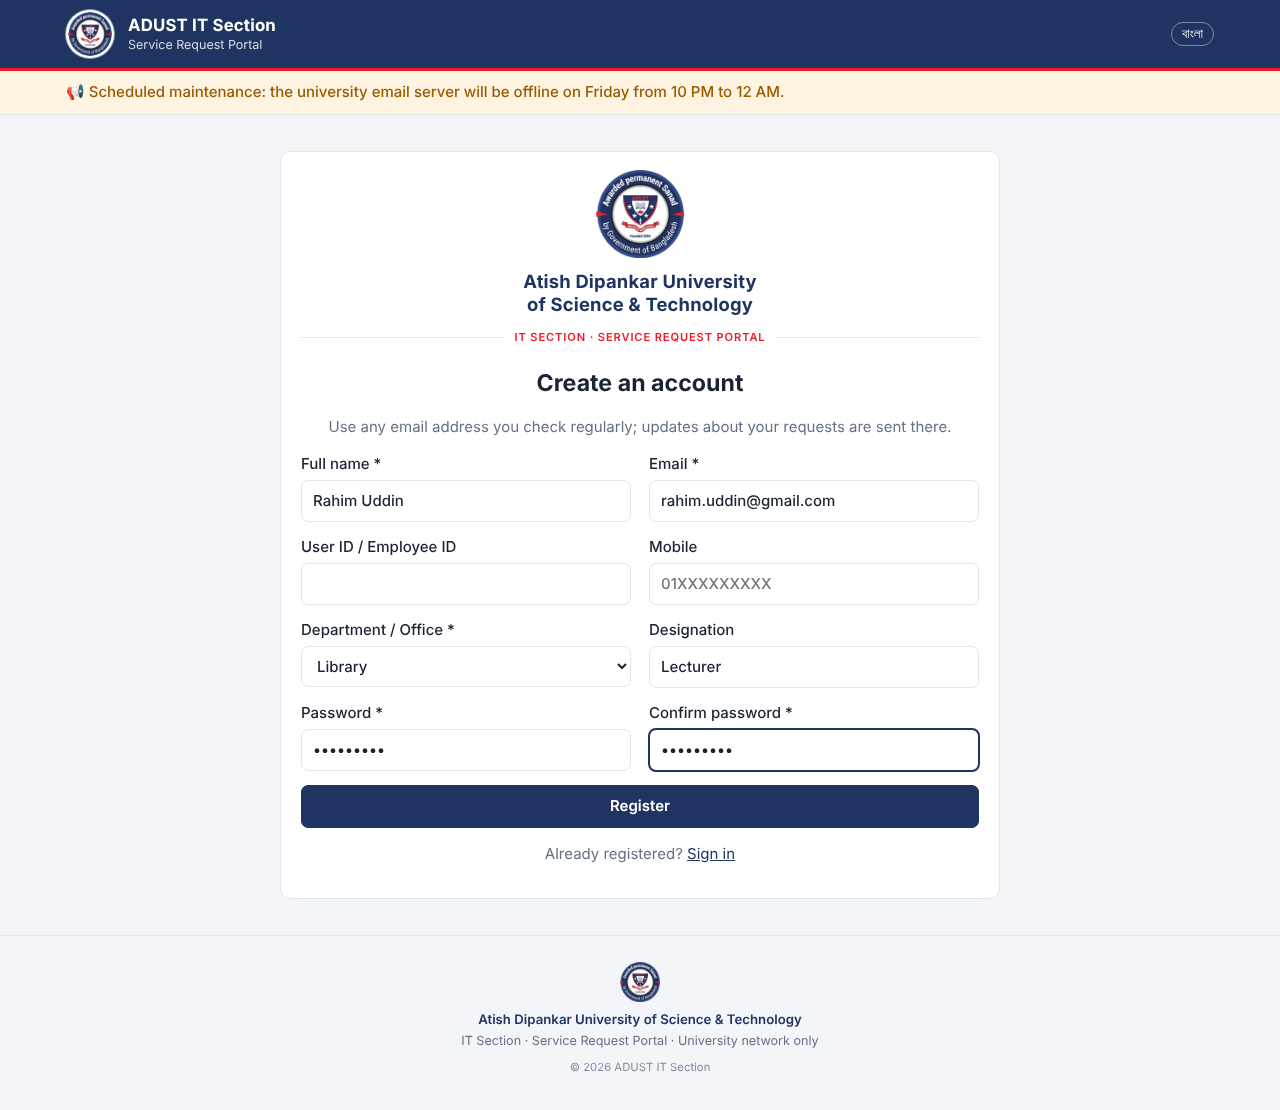
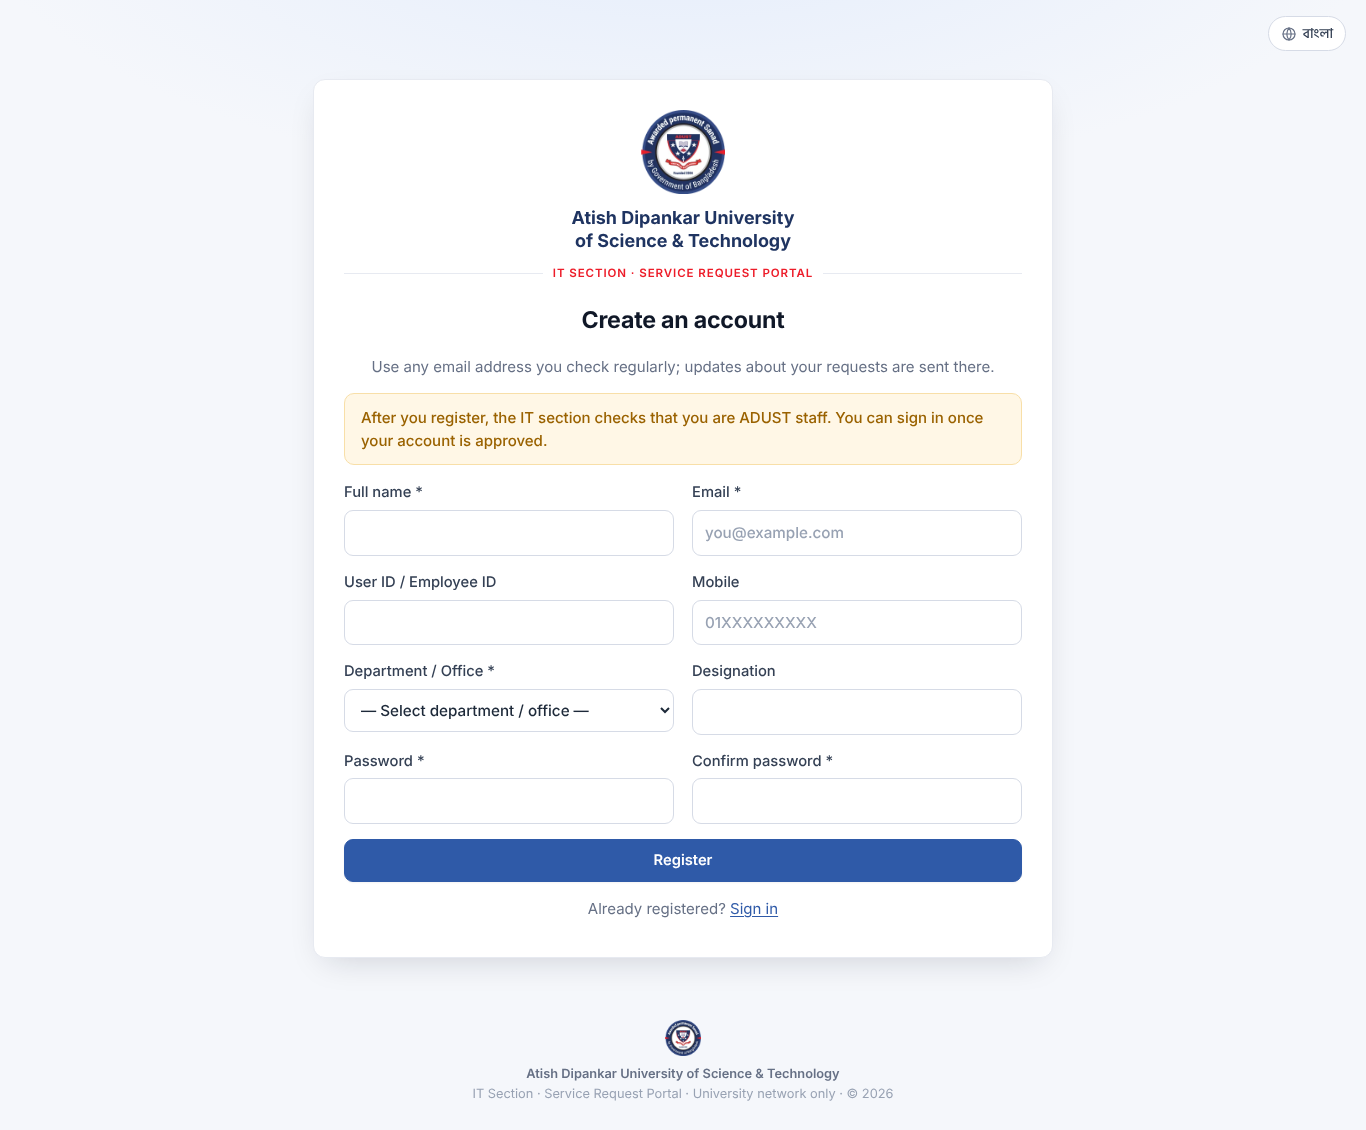
Require IT admin verification for self-registered accounts
New sign-ups cannot sign in until an IT admin approves them on the Users
page (choosing their role and department-head flag) or rejects them.
Admins get a notification and email for each new sign-up; the user gets
an email when approved. Can be switched off in Settings. Existing
databases gain the 'approved' column on start-up with all current
accounts kept active.

Claude-Session: https://claude.ai/code/session_01EB5ad8Y4nycXoiEcyB24w6

Changed region(s): [[0.0, 0.0, 1.0, 0.827], [0.3438, 0.8577, 0.6562, 0.9802], [0.25, 0.4901, 0.375, 0.5207]]

diff --git a/templates/admin/users.html b/templates/admin/users.html
@@ -1,6 +1,37 @@
 {% extends "base.html" %}{% from "_macros.html" import dept_select %}{% block title %}{{ _('Users') }}{% endblock %}
 {% block content %}
 <h1>{{ _('Users') }}</h1>
+{% if pending %}
+<div class="card approve-card">
+  <h2>👤 {{ _('New accounts waiting for verification') }} ({{ pending|length }})</h2>
+  <p class="muted">{{ _('Check that each person really is ADUST staff (name, department, designation, email) before approving.') }}</p>
+  <table>
+    <thead><tr><th>{{ _('Name') }}</th><th>{{ _('Email / User ID') }}</th><th>{{ _('Department') }}</th><th>{{ _('Mobile') }}</th><th>{{ _('Registered') }}</th><th></th></tr></thead>
+    <tbody>
+    {% for u in pending %}
+    <tr>
+      <td data-label="{{ _('Name') }}"><strong>{{ u.name }}</strong><br><small class="muted">{{ u.designation or '—' }}</small></td>
+      <td data-label="{{ _('Email') }}">{{ u.email }}<br><small class="muted">{{ u.login_id or '' }}</small></td>
+      <td data-label="{{ _('Department') }}">{{ u.department }}</td>
+      <td data-label="{{ _('Mobile') }}">{% if u.phone %}<a href="tel:{{ u.phone }}">{{ u.phone }}</a>{% else %}—{% endif %}</td>
+      <td data-label="{{ _('Registered') }}">{{ u.created_at|dt }}</td>
+      <td>
+        <form method="post" action="{{ url_for('admin_verify_user', user_id=u.id) }}" class="verify-form">
+          <input type="hidden" name="csrf_token" value="{{ csrf_token() }}">
+          <select name="role" aria-label="{{ _('Role') }}">{% for k, v in ROLES.items() %}<option value="{{ k }}">{{ _(v) }}</option>{% endfor %}</select>
+          <label class="check"><input type="checkbox" name="is_approver" value="1"> {{ _('Dept. head') }}</label>
+          <div class="actions">
+            <button class="btn small primary" name="decision" value="approve">✓ {{ _('Approve') }}</button>
+            <button class="btn small danger" name="decision" value="reject" onclick="return confirm('{{ _('Reject and remove this account request?') }}')">✕ {{ _('Reject') }}</button>
+          </div>
+        </form>
+      </td>
+    </tr>
+    {% endfor %}
+    </tbody>
+  </table>
+</div>
+{% endif %}
 <div class="card">
   <h2>{{ _('Edit {name}', name=edit.name) if edit else _('Add a user') }}</h2>
   <form method="post" class="grid">

diff --git a/templates/admin/settings.html b/templates/admin/settings.html
@@ -22,6 +22,7 @@
         <option value="left" {{ 'selected' if values.sidebar_side == 'left' }}>{{ _('Left side') }}</option>
         <option value="right" {{ 'selected' if values.sidebar_side == 'right' }}>{{ _('Right side') }}</option>
       </select></label>
+    <label class="check"><input type="checkbox" name="require_account_approval" value="1" {{ 'checked' if values.require_account_approval == '1' }}> {{ _('New accounts must be verified by an IT admin before they can sign in') }}</label>
     <label class="check"><input type="checkbox" name="sms_urgent" value="1" {{ 'checked' if values.sms_urgent == '1' }}> {{ _('Send SMS to IT staff for urgent requests and escalations') }}</label>
     <button class="btn primary">{{ _('Save settings') }}</button>
   </form>

diff --git a/static/style.css b/static/style.css
@@ -229,6 +229,9 @@ a.stat:hover { border-color: var(--accent-border); transform: translateY(-1px); 
 .timeline .body { white-space: pre-wrap; margin-top: 4px; }
 .file-inline { margin: 0 0 12px; }
 .approve-card { border-color: #f3c27a; background: #fffbf3; }
+.verify-form { display: grid; gap: 6px; min-width: 190px; }
+.verify-form select { margin: 0 !important; padding: 6px 8px !important; font-size: .85rem !important; }
+.verify-form .check { margin: 0; font-size: .85rem; }
 .rating-input { display: inline-flex; flex-direction: row-reverse; gap: 4px; margin: 4px 0 12px; }
 .rating-input input { position: absolute; opacity: 0; width: 1px; height: 1px; }
 .rating-input label { font-size: 2rem; color: #d7dbe3; cursor: pointer; margin: 0; line-height: 1; }

diff --git a/templates/dashboard.html b/templates/dashboard.html
@@ -5,6 +5,10 @@
   <h1>{{ _('IT Section dashboard') if is_it() else _('Welcome, {name}', name=g.user.name|first_name) }}</h1>
   <a class="btn primary" href="{{ url_for('new_ticket') }}">+ {{ _('New request') }}</a>
 </div>
+{% set pa = pending_accounts_count() %}
+{% if pa %}
+<a class="flash warn block-link" href="{{ url_for('admin_users') }}">👤 {{ _('{n} new account(s) waiting for verification', n=pa) }} →</a>
+{% endif %}
 {% if approvals %}
 <a class="flash warn block-link" href="{{ url_for('approvals') }}">✍ {{ _('{n} request(s) waiting for your approval', n=approvals) }} →</a>
 {% endif %}

diff --git a/templates/register.html b/templates/register.html
@@ -4,6 +4,7 @@
   {% include "_auth_head.html" %}
   <h1 class="center">{{ _('Create an account') }}</h1>
   <p class="muted center">{{ _('Use any email address you check regularly; updates about your requests are sent there.') }}</p>
+  <div class="flash warn">{{ _('After you register, the IT section checks that you are ADUST staff. You can sign in once your account is approved.') }}</div>
   <form method="post" class="grid">
     <input type="hidden" name="csrf_token" value="{{ csrf_token() }}">
     <label>{{ _('Full name') }} * <input name="name" required value="{{ request.form.name }}"></label>

diff --git a/templates/notifications.html b/templates/notifications.html
@@ -5,7 +5,7 @@
 </div>
 <div class="card">
   {% for n in notes %}
-  <a class="note {{ 'unread' if not n.is_read }}" href="{{ url_for('ticket_detail', ticket_id=n.ticket_id) if n.ticket_id else '#' }}">
+  <a class="note {{ 'unread' if not n.is_read }}" href="{{ url_for('ticket_detail', ticket_id=n.ticket_id) if n.ticket_id else (url_for('admin_users') if is_admin() else '#') }}">
     <span>{% if n.code %}<span class="code">{{ n.code }}</span> {% endif %}{{ n.message }}</span>
     <small class="muted">{{ n.created_at|dt }}</small>
   </a>

diff --git a/templates/base.html b/templates/base.html
@@ -34,7 +34,7 @@
     {% endif %}
     {% if is_admin() %}
     <div class="nav-label">{{ _('Administration') }}</div>
-    {{ nav('admin_users', _('Users'), 'users') }}
+    {{ nav('admin_users', _('Users'), 'users', badge=pending_accounts_count()) }}
     {{ nav('admin_departments', _('Departments'), 'building') }}
     {{ nav('admin_categories', _('Categories'), 'tag') }}
     {{ nav('admin_recurring', _('Recurring maintenance'), 'repeat') }}

diff --git a/app.py b/app.py
@@ -104,6 +104,7 @@ DEFAULT_SETTINGS = {
     "backup_keep_days": "14",
     "sms_urgent": "1",
     "sidebar_side": "left",         # menu position: left or right
+    "require_account_approval": "1",  # self-registered accounts must be verified by an admin
     "hk_last": "",
     "last_backup": "",
     "last_backup_copy": "",
@@ -175,6 +176,7 @@ def init_db():
     with open(os.path.join(BASE_DIR, "schema.sql")) as f:
         db.executescript(f.read())
     db.execute("PRAGMA journal_mode = WAL")
+    migrate(db)
     if db.execute("SELECT COUNT(*) FROM categories").fetchone()[0] == 0:
         db.executemany("INSERT INTO categories (name, needs_approval) VALUES (?, ?)", DEFAULT_CATEGORIES)
     if db.execute("SELECT COUNT(*) FROM departments").fetchone()[0] == 0:
@@ -183,6 +185,20 @@ def init_db():
     db.commit()
     for folder in ("UPLOAD_FOLDER", "BACKUP_FOLDER"):
         os.makedirs(app.config[folder], exist_ok=True)
+
+
+# Columns added after the first release: (table, column, definition).
+# Existing databases get them on start-up; existing rows take the default.
+MIGRATIONS = [
+    ("users", "approved", "INTEGER NOT NULL DEFAULT 1"),
+]
+
+
+def migrate(db):
+    for table, column, definition in MIGRATIONS:
+        cols = {r[1] for r in db.execute(f"PRAGMA table_info({table})")}
+        if column not in cols:
+            db.execute(f"ALTER TABLE {table} ADD COLUMN {column} {definition}")
 
 
 def get_setting(key):
@@ -309,7 +325,8 @@ def load_user():
     g.user = None
     uid = session.get("user_id")
     if uid is not None:
-        g.user = get_db().execute("SELECT * FROM users WHERE id = ? AND active = 1", (uid,)).fetchone()
+        g.user = get_db().execute("SELECT * FROM users WHERE id = ? AND active = 1 AND approved = 1",
+                                  (uid,)).fetchone()
         if g.user is None:
             session.clear()
         elif "lang" not in session:
@@ -395,6 +412,7 @@ app.jinja_env.globals.update(
     active_announcements=active_announcements, departments=departments,
     now_year=lambda: date.today().year, today=lambda: date.today().isoformat(),
     sidebar_side=lambda: get_setting("sidebar_side"),
+    pending_accounts_count=lambda: pending_accounts_count(),
 )
 
 
@@ -644,6 +662,25 @@ def notify(user_ids, ticket, message, sms=False):
         send_sms([p["phone"] for p in people], f"ADUST IT {ticket['code']}: {message}"[:300])
 
 
+def notify_admins_new_account(name, email, department, designation):
+    """Tell IT admins that a self-registered account is waiting for verification."""
+    db = get_db()
+    admins = db.execute("SELECT id, email FROM users WHERE role = 'admin' AND active = 1 AND approved = 1").fetchall()
+    message = f"New account to verify: {name} ({designation or 'no designation'}, {department}) — {email}"
+    db.executemany("INSERT INTO notifications (user_id, ticket_id, message, created_at) VALUES (?, NULL, ?, ?)",
+                   [(a["id"], message, now()) for a in admins])
+    db.commit()
+    base = app.config["BASE_URL"] or (request.host_url.rstrip("/") if has_request_context() else "")
+    send_email([a["email"] for a in admins], "[ADUST IT Portal] New account waiting for verification",
+               f"{message}\n\nVerify or reject it here: {base}/admin/users?status=pending\n\n— ADUST IT Section Portal")
+
+
+def pending_accounts_count():
+    if not is_admin():
+        return 0
+    return get_db().execute("SELECT COUNT(*) FROM users WHERE approved = 0").fetchone()[0]
+
+
 def it_team_ids(admins_only=False):
     roles = ("admin",) if admins_only else ("it", "admin")
     marks = ",".join("?" * len(roles))
@@ -756,6 +793,8 @@ def login():
         if not ok:
             record_failure(ident)
             flash(_("Incorrect email / user ID or password."), "error")
+        elif not user["approved"]:
+            flash(_("Your account is waiting for verification by the IT section. You will get an email when it is approved."), "error")
         elif not user["active"]:
             flash(_("Your account is deactivated. Please contact the IT section."), "error")
         else:
@@ -802,14 +841,21 @@ def register():
         if error is None:
             try:
                 db = get_db()
+                needs_check = get_setting("require_account_approval") == "1"
                 db.execute(
                     "INSERT INTO users (login_id, name, email, phone, department, designation, role, lang, "
-                    "password_hash, created_at) VALUES (?, ?, ?, ?, ?, ?, 'user', ?, ?, ?)",
+                    "password_hash, approved, created_at) VALUES (?, ?, ?, ?, ?, ?, 'user', ?, ?, ?, ?)",
                     (login_id, form["name"].strip(), email, form.get("phone", "").strip(),
                      form["department"].strip(), form.get("designation", "").strip(), g.lang,
-                     generate_password_hash(form["password"]), now()))
+                     generate_password_hash(form["password"]), 0 if needs_check else 1, now()))
                 db.commit()
-                flash(_("Account created. Please sign in."), "success")
+                if needs_check:
+                    notify_admins_new_account(form["name"].strip(), email, form["department"].strip(),
+                                              form.get("designation", "").strip())
+                    flash(_("Account created. The IT section will verify that you are ADUST staff; "
+                            "you will get an email when you can sign in."), "success")
+                else:
+                    flash(_("Account created. Please sign in."), "success")
                 return redirect(url_for("login"))
             except sqlite3.IntegrityError:
                 error = _("An account with that email or user ID already exists.")
@@ -1851,9 +1897,38 @@ def admin_users():
     if request.args.get("q", "").strip():
         where = "(name LIKE ? OR email LIKE ? OR login_id LIKE ? OR department LIKE ?)"
         args = [f"%{request.args['q'].strip()}%"] * 4
-    users = db.execute(f"SELECT * FROM users WHERE {where} ORDER BY CASE role WHEN 'admin' THEN 0 "
+    users = db.execute(f"SELECT * FROM users WHERE {where} AND approved = 1 ORDER BY CASE role WHEN 'admin' THEN 0 "
                        f"WHEN 'it' THEN 1 ELSE 2 END, name", args).fetchall()
-    return render_template("admin/users.html", users=users, edit=edit)
+    pending = db.execute("SELECT * FROM users WHERE approved = 0 ORDER BY created_at").fetchall()
+    return render_template("admin/users.html", users=users, edit=edit, pending=pending)
+
+
+@app.route("/admin/users/<int:user_id>/verify", methods=["POST"])
+@admin_required
+def admin_verify_user(user_id):
+    """Approve or reject a self-registered account."""
+    db = get_db()
+    user = db.execute("SELECT * FROM users WHERE id = ? AND approved = 0", (user_id,)).fetchone()
+    if user is None:
+        abort(404)
+    if request.form.get("decision") == "approve":
+        role = request.form.get("role") if request.form.get("role") in ROLES else "user"
+        db.execute("UPDATE users SET approved = 1, role = ?, is_approver = ? WHERE id = ?",
+                   (role, 1 if request.form.get("is_approver") else 0, user_id))
+        db.commit()
+        base = app.config["BASE_URL"] or request.host_url.rstrip("/")
+        send_email([user["email"]], "ADUST IT Portal — your account is approved",
+                   f"Hello {user['name']},\n\nYour account on the ADUST IT Service Request Portal has been "
+                   f"verified. You can now sign in:\n{base}/login\n\n— ADUST IT Section")
+        flash(_("{name} can now sign in.", name=user["name"]), "success")
+    elif request.form.get("decision") == "reject":
+        # A rejected sign-up has no requests yet, so the account is simply removed.
+        db.execute("DELETE FROM users WHERE id = ?", (user_id,))
+        db.commit()
+        flash(_("Account request from {name} was rejected and removed.", name=user["name"]), "success")
+    else:
+        abort(400)
+    return redirect(url_for("admin_users"))
 
 
 @app.route("/admin/users/<int:user_id>/toggle", methods=["POST"])
@@ -2137,6 +2212,7 @@ def admin_settings():
                 if f.get(key, "").isdigit():
                     set_setting(key, int(f[key]))
             set_setting("sms_urgent", "1" if f.get("sms_urgent") else "0")
+            set_setting("require_account_approval", "1" if f.get("require_account_approval") else "0")
             if f.get("sidebar_side") in ("left", "right"):
                 set_setting("sidebar_side", f["sidebar_side"])
             flash(_("Settings saved."), "success")

diff --git a/tests/smoke_test.py b/tests/smoke_test.py
@@ -43,12 +43,32 @@ post(admin, "/admin/users", {"name": "Admin Phone", "email": "itadmin@adust.edu.
 it = client(); login(it, "rafiq@adust.edu.bd", "itstaff123")
 head = client(); login(head, "head@adust.edu.bd", "headpass1")
 u = client()
-ok(post(u, "/register", {"name": "Mim Akter", "email": "mim@adust.edu.bd", "department": "Computer Science & Engineering (CSE)", "phone": "01811000000", "password": "secret123", "confirm": "secret123"}), "Account created")
+ok(post(u, "/register", {"name": "Mim Akter", "email": "mim@adust.edu.bd", "department": "Computer Science & Engineering (CSE)", "phone": "01811000000", "password": "secret123", "confirm": "secret123"}), "will verify")
+
+# ---------- new accounts wait for admin verification
+def uid(email): return q("SELECT id FROM users WHERE email=?", email)[0][0]
+def approve(email, **extra):
+    return post(admin, f"/admin/users/{uid(email)}/verify", {"decision": "approve", "role": "user", **extra})
+ok(login(u, "mim@adust.edu.bd", "secret123"), "waiting for verification")
+assert u.get("/").status_code == 302                                     # still signed out
+ok(admin.get("/"), "1 new account(s) waiting for verification")
+ok(admin.get("/admin/users"), "New accounts waiting for verification", "Mim Akter")
+ok(admin.get("/notifications"), "New account to verify: Mim Akter")
+assert any(e[0] == ["itadmin@adust.edu.bd"] and "verification" in e[1] for e in emails), emails
+emails.clear()
+ok(approve("mim@adust.edu.bd"), "Mim Akter can now sign in")
+assert any(e[0] == ["mim@adust.edu.bd"] and "approved" in e[1] for e in emails), emails
+bad = client(); post(bad, "/register", {"name": "Fake Person", "email": "fake@gmail.com", "department": "Library", "password": "secret123", "confirm": "secret123"})
+ok(post(admin, f"/admin/users/{uid('fake@gmail.com')}/verify", {"decision": "reject"}), "rejected and removed")
+assert not q("SELECT 1 FROM users WHERE email='fake@gmail.com'")
+assert it.post(f"/admin/users/1/verify", data={"csrf_token": tok(it), "decision": "approve"}).status_code == 403
+print("account verification ok")
 ok(login(u, "mim@adust.edu.bd", "secret123"), "Welcome, Mim")
 
 # ---------- any email (personal or institutional) can register and sign in
 g = client()
 ok(post(g, "/register", {"name": "Personal Mail", "email": "someone.personal@gmail.com", "department": "Library", "password": "secret123", "confirm": "secret123"}), "Account created")
+approve("someone.personal@gmail.com")
 ok(login(g, "someone.personal@gmail.com", "secret123"), "Welcome, Personal")
 ok(post(client(), "/register", {"name": "Bad", "email": "not-an-email", "department": "Library", "password": "secret123", "confirm": "secret123"}), "valid email")
 app.config["ALLOWED_EMAIL_DOMAINS"] = ["adust.edu.bd"]
@@ -118,7 +138,7 @@ ok(post(head, f"/tickets/{tid}/approve", {"decision": "reject"}), "reason for re
 ok(post(head, f"/tickets/{tid}/approve", {"decision": "approve", "comment": "OK, budget available"}), "approved and sent")
 assert q("SELECT status, approved_by FROM tickets WHERE id=?", tid)[0][:] == ("new", 3)
 assert head.post(f"/tickets/{tid}/update", data={"csrf_token": tok(head), "body": "hi"}).status_code == 403
-other = client(); post(other, "/register", {"name": "Other", "email": "o@adust.edu.bd", "department": "Law", "password": "secret123", "confirm": "secret123"}); login(other, "o@adust.edu.bd", "secret123")
+other = client(); post(other, "/register", {"name": "Other", "email": "o@adust.edu.bd", "department": "Law", "password": "secret123", "confirm": "secret123"}); approve("o@adust.edu.bd"); login(other, "o@adust.edu.bd", "secret123")
 assert other.get(f"/tickets/{tid}").status_code == 403 and other.get("/approvals").status_code == 403
 print("approval ok")
 

diff --git a/i18n.py b/i18n.py
@@ -472,6 +472,17 @@ BN = {
     "Dept. head": "বিভাগীয় প্রধান",
     "Deactivated": "নিষ্ক্রিয়",
     "Deactivate": "নিষ্ক্রিয় করুন",
+    "New accounts waiting for verification": "যাচাইয়ের অপেক্ষায় থাকা নতুন অ্যাকাউন্ট",
+    "Check that each person really is ADUST staff (name, department, designation, email) before approving.": "অনুমোদনের আগে যাচাই করুন যে ব্যক্তি সত্যিই ADUST-এর স্টাফ (নাম, বিভাগ, পদবি, ইমেইল)।",
+    "Registered": "নিবন্ধনের সময়",
+    "After you register, the IT section checks that you are ADUST staff. You can sign in once your account is approved.": "নিবন্ধনের পর আইটি সেকশন যাচাই করবে আপনি ADUST-এর স্টাফ কিনা। অ্যাকাউন্ট অনুমোদন হলে সাইন ইন করতে পারবেন।",
+    "Reject and remove this account request?": "এই অ্যাকাউন্টের অনুরোধ বাতিল করে মুছে ফেলবেন?",
+    "{name} can now sign in.": "{name} এখন সাইন ইন করতে পারবেন।",
+    "Account request from {name} was rejected and removed.": "{name}-এর অ্যাকাউন্টের অনুরোধ বাতিল করে মুছে ফেলা হয়েছে।",
+    "{n} new account(s) waiting for verification": "{n}টি নতুন অ্যাকাউন্ট যাচাইয়ের অপেক্ষায়",
+    "New accounts must be verified by an IT admin before they can sign in": "নতুন অ্যাকাউন্ট আইটি অ্যাডমিন যাচাই না করা পর্যন্ত সাইন ইন করা যাবে না",
+    "Your account is waiting for verification by the IT section. You will get an email when it is approved.": "আপনার অ্যাকাউন্টটি আইটি সেকশনের যাচাইয়ের অপেক্ষায় আছে। অনুমোদন হলে ইমেইলে জানানো হবে।",
+    "Account created. The IT section will verify that you are ADUST staff; you will get an email when you can sign in.": "অ্যাকাউন্ট তৈরি হয়েছে। আপনি ADUST-এর স্টাফ কিনা আইটি সেকশন যাচাই করবে; সাইন ইন করা গেলে ইমেইলে জানানো হবে।",
     "Activate": "সক্রিয় করুন",
 
     # ---- Messages (flash)
